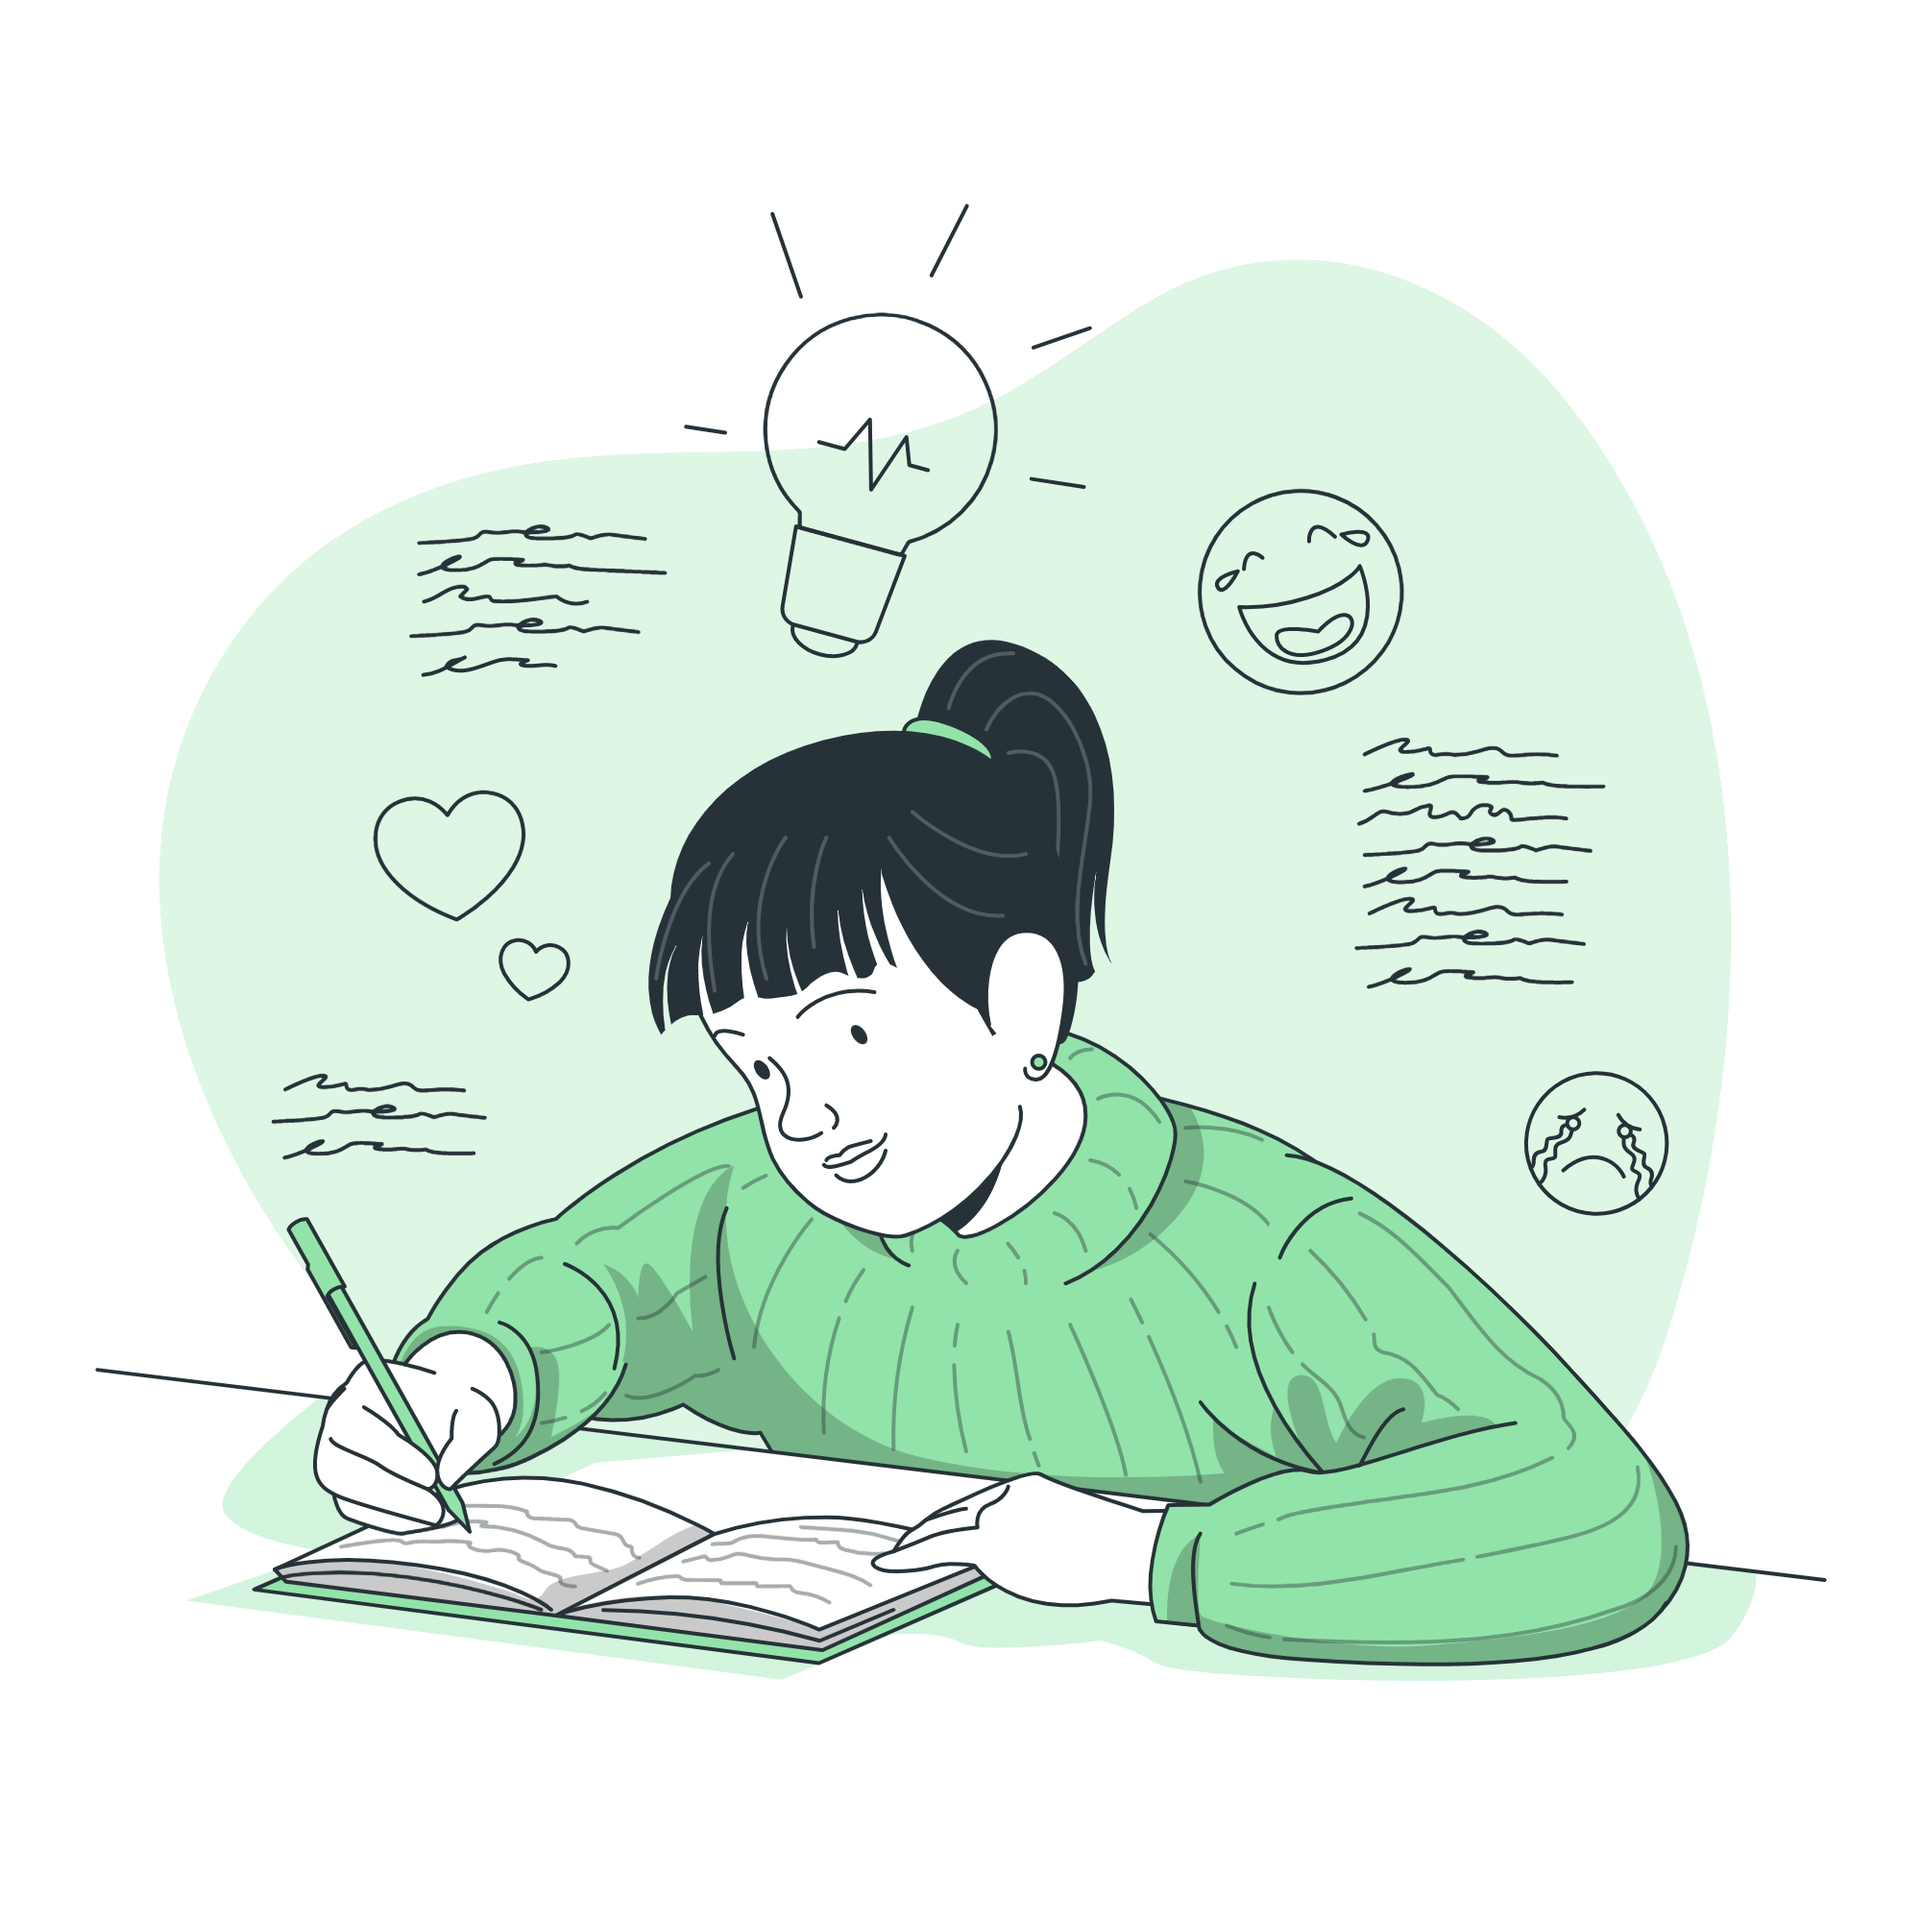
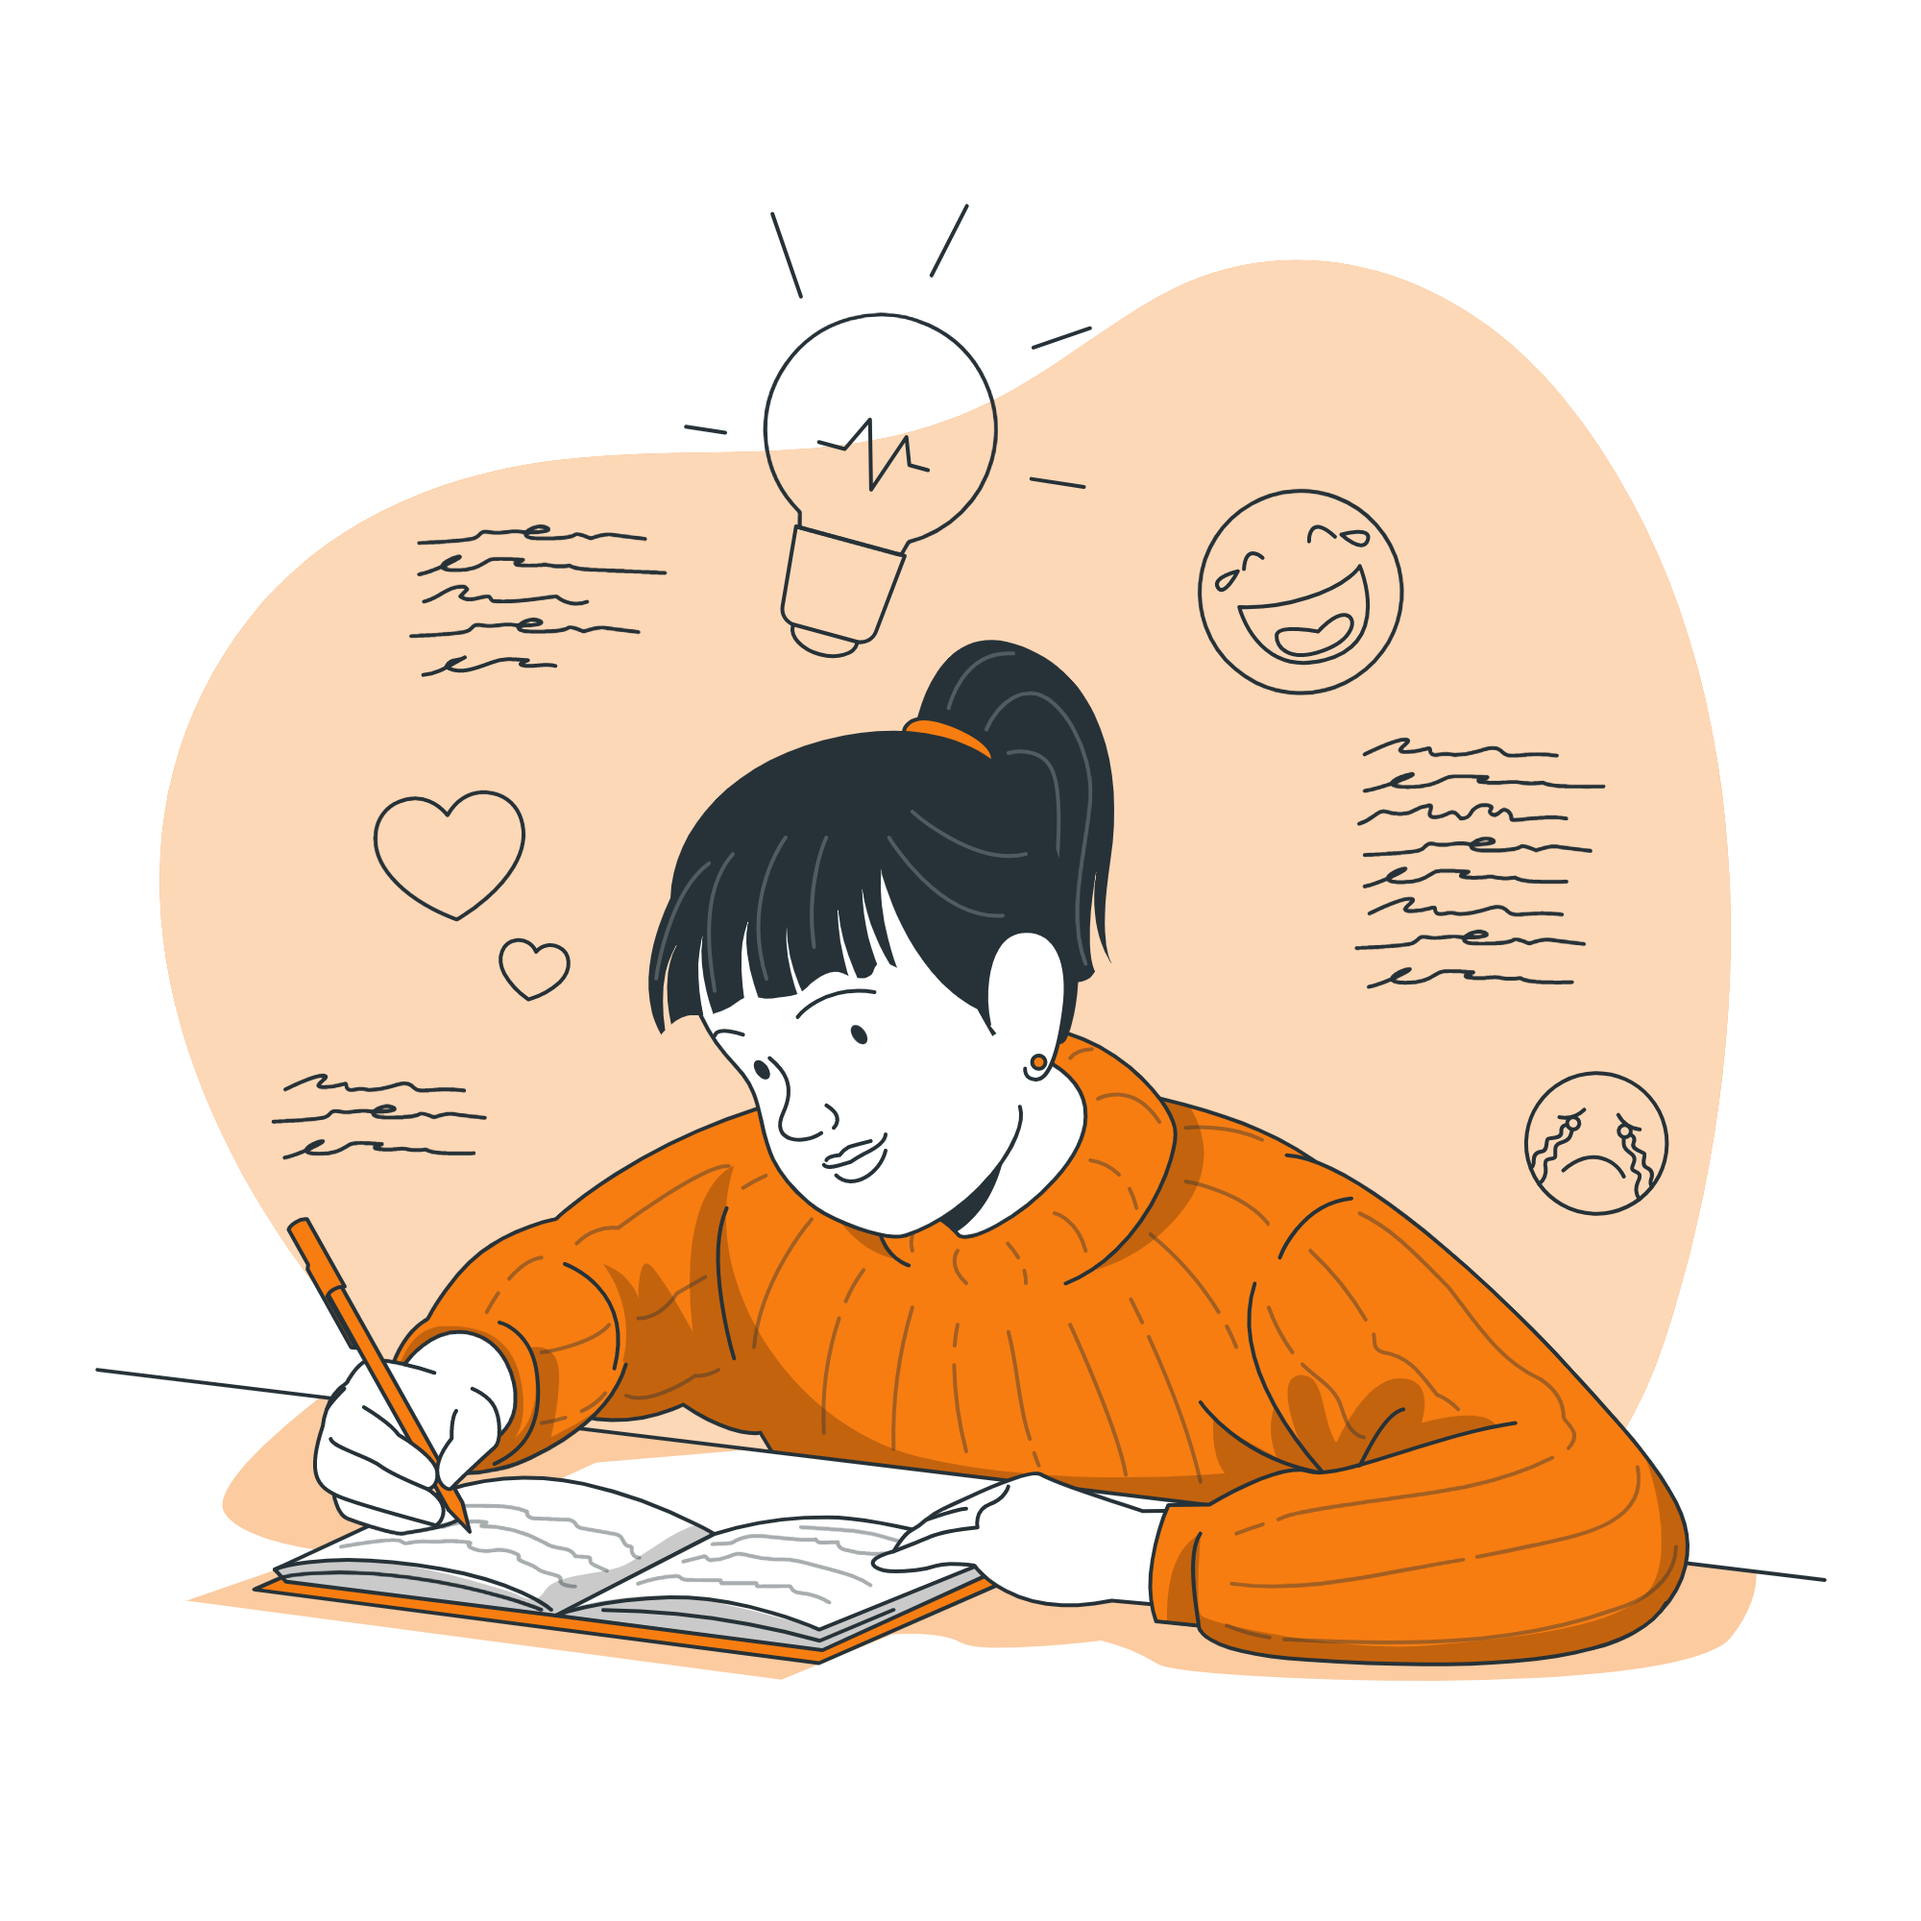
change image of safe place, change message when share

diff --git a/components/ShareComponent.js b/components/ShareComponent.js
@@ -8,7 +8,7 @@ const ShareComponent = () => {
         try {
             const result = await Share.share({
                 message:
-                    'MindCare | Descarga esta aplicacion y empieza a darle la importancia que se merece al cuidado emocional.',
+                    'MindCare | Descarga esta aplicacion y empieza a darle la importancia que se merece a la salud mental.',
             });
 
         } catch (error) {

diff --git a/screens/CardsForHelpScreen.js b/screens/CardsForHelpScreen.js
@@ -32,7 +32,7 @@ const styles = StyleSheet.create({
         padding: 10,
     },
     item: {
-        backgroundColor: '#BEDEFF',
+        backgroundColor: '#F27C38',
         padding: 20,
         marginVertical: 8,
         marginHorizontal: 16,
